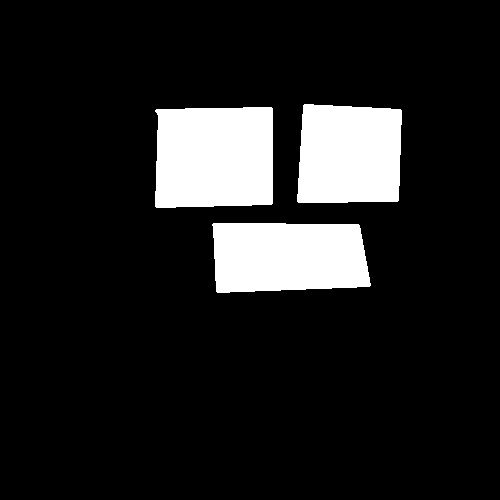
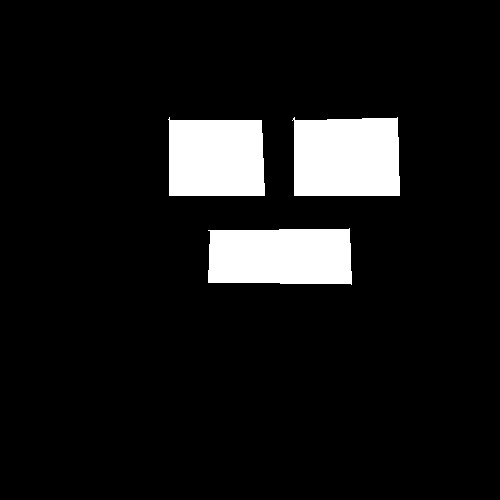
added docker file

Changed region(s): [[0.3, 0.21, 0.81, 0.6]]

diff --git a/utils.py b/utils.py
@@ -1,43 +1,108 @@
 from PIL import Image, ImageDraw, ImageFont
 import numpy as np
 import cv2
+import streamlit as st
 
 
-def load_image(file):
-    return Image.open(file).convert("RGB")
+def init_session_state():
+    defaults = {
+        "file_name": None,
+        "uploaded_image": None,
+        "original_resized_image": None,
+        "annotated_image": None,
+        "draw_mode": False,
+        "count": 0,
+        "tempList": {},
+        "black_image": None,
+        "done_clicked": False,
+    }
+    for key, value in defaults.items():
+        if key not in st.session_state:
+            st.session_state[key] = value
+
+# def load_image(file):
+#     return Image.open(file).convert("RGB")
 
 
 
-def resize_image(image_np,orig_width,orig_height):
-    image=Image.fromarray(image_np)
-    MAX_CANVAS_WIDTH = 500
-    scale = MAX_CANVAS_WIDTH / orig_width
-    new_width = int(orig_width * scale)
-    new_height = int(orig_height * scale)
-    resized_image = image.resize((new_width, new_height))
-    return resized_image
+# def resize_image(image_np,orig_width,orig_height):
+#     image=Image.fromarray(image_np)
+#     MAX_CANVAS_WIDTH = 500
+#     scale = MAX_CANVAS_WIDTH / orig_width
+#     new_width = int(orig_width * scale)
+#     new_height = int(orig_height * scale)
+#     resized_image = image.resize((new_width, new_height))
+#     return resized_image
 
-def draw_points_on_black_image(pil_image, point_dict):
+# def draw_points_on_black_image(pil_image, point_dict):
+#     """
+#     Create a black image (NumPy) of the same shape as the given PIL image,
+#     and set specific (x, y) coordinates to white (255) based on the input dictionary.
+
+#     Args:
+#         pil_image (PIL.Image): Input image to get shape.
+#         point_dict (dict): Dictionary with values as list of (x, y) tuples.
+
+#     Returns:
+#         np.ndarray: Black image with specified points set to 255 (white).
+#     """
+#     width, height = pil_image.size
+#     black_img = np.zeros((height, width), dtype=np.uint8)  # Grayscale black image
+#     for key, points in point_dict.items():
+#         # Convert list of tuples -> numpy array shape (n_points, 1, 2)
+#         contour = np.array(points, dtype=np.int32).reshape((-1, 1, 2))
+        
+#         # Fill polygon with white
+#         cv2.fillPoly(black_img, [contour], color=(255, 255, 255))  # White fill
+
+#         # Draw red contour on top
+#         cv2.polylines(black_img, [contour], isClosed=True, color=(255, 0, 0), thickness=2)
+#     return black_img
+
+
+
+def resize_image(image, width, height):
     """
-    Create a black image (NumPy) of the same shape as the given PIL image,
-    and set specific (x, y) coordinates to white (255) based on the input dictionary.
+    Resize a given image to the specified width and height.
 
     Args:
-        pil_image (PIL.Image): Input image to get shape.
-        point_dict (dict): Dictionary with values as list of (x, y) tuples.
+        image (np.ndarray): Input image as a NumPy array.
+        width (int): Target width in pixels.
+        height (int): Target height in pixels.
 
     Returns:
-        np.ndarray: Black image with specified points set to 255 (white).
+        PIL.Image.Image: Resized image as a PIL Image object.
     """
-    width, height = pil_image.size
-    black_img = np.zeros((height, width), dtype=np.uint8)  # Grayscale black image
-    for key, points in point_dict.items():
-        # Convert list of tuples -> numpy array shape (n_points, 1, 2)
-        contour = np.array(points, dtype=np.int32).reshape((-1, 1, 2))
-        
-        # Fill polygon with white
-        cv2.fillPoly(black_img, [contour], color=(255, 255, 255))  # White fill
+    return Image.fromarray(image).resize((width, height))
 
-        # Draw red contour on top
-        cv2.polylines(black_img, [contour], isClosed=True, color=(255, 0, 0), thickness=2)
-    return black_img
+def detect_objects(image,model):
+    """
+    Perform object detection on the given image using the YOLO model.
+
+    Args:
+        image (PIL.Image.Image): Input image as a PIL Image.
+
+    Returns:
+        np.ndarray: Annotated image with detection results plotted on it.
+    """
+    image_np = np.array(image)
+    results = model(image_np)
+    return results[0].plot()
+
+def draw_points_on_black_image(image, annotations):
+    """
+    Draw labeled polygons on a black image based on user annotations.
+
+    Args:
+        image (PIL.Image.Image): Reference image to determine size.
+        annotations (dict): Dictionary containing polygon points as values.
+
+    Returns:
+        np.ndarray: Black image with white polygons drawn over it.
+    """
+    black_image = Image.new("RGB", image.size, "black")
+    draw = ImageDraw.Draw(black_image)
+    for points in annotations.values():
+        draw.polygon(points, outline="white", fill="white")
+    return np.array(black_image)
+

diff --git a/app.py b/app.py
@@ -1,0 +1,116 @@
+import streamlit as st
+import numpy as np
+from PIL import Image, ImageDraw
+import cv2
+from ultralytics import YOLO
+from streamlit_drawable_canvas import st_canvas
+from config import YOLO_MODEL_PATH,ANNOTATED_MASK_PATH
+from utils import (init_session_state,resize_image,draw_points_on_black_image,detect_objects)
+# Load model once
+
+
+@st.cache_resource
+def load_model():
+    return YOLO(YOLO_MODEL_PATH)
+
+
+def main():
+
+    model = load_model()
+    st.title("YOLO Object Detection App")
+
+    init_session_state()
+
+    # File uploader
+    uploaded_file = st.file_uploader("Choose an image...", type=["jpg", "jpeg", "png"])
+
+    # UI controls
+    col1, col2, col3 = st.columns(3)
+    upload_pressed = col1.button("Show Image")
+    detect_pressed = col2.button("Detect")
+    annotate_pressed = col3.button("Annotate")
+
+    # Upload logic
+    if upload_pressed and uploaded_file:
+        st.session_state.file_name = uploaded_file.name
+        st.session_state.uploaded_image = Image.open(uploaded_file)
+        st.image(st.session_state.uploaded_image, caption="Original Image", width=500)
+
+    # Detection logic
+    elif detect_pressed:
+        if st.session_state.uploaded_image is None and uploaded_file:
+            st.session_state.uploaded_image = Image.open(uploaded_file)
+        
+        original_image = st.session_state.uploaded_image
+        st.session_state.annotated_image = detect_objects(original_image,model)
+        st.session_state.original_resized_image = resize_image(np.array(original_image), 500, 500)
+
+        col1, col2 = st.columns(2)
+        col1.image(original_image, caption="Original Image", use_container_width=True)
+        col2.image(st.session_state.annotated_image, caption="Detected Image", use_container_width=True)
+
+    # Annotate logic
+    elif annotate_pressed:
+        if st.session_state.uploaded_image is None and uploaded_file:
+            st.session_state.uploaded_image = Image.open(uploaded_file)
+        st.session_state.draw_mode = True
+
+    # Drawing mode
+    if st.session_state.draw_mode:
+        base_image = resize_image(st.session_state.annotated_image, 500, 500)
+        
+        if st.session_state.count == 0:
+            st.session_state.original_resized = base_image.copy()
+
+        canvas_result = st_canvas(
+            fill_color="rgba(255, 0, 0, 0.3)",
+            stroke_width=2,
+            stroke_color="#FF0000",
+            background_image=base_image,
+            update_streamlit=True,
+            height=500,
+            width=500,
+            drawing_mode="polygon",
+            key="canvas",
+        )
+
+        if canvas_result.json_data and canvas_result.json_data["objects"]:
+            for obj in canvas_result.json_data["objects"]:
+                path_data = obj["path"]
+                polygon_points = [(pt[1], pt[2]) for pt in path_data if pt[0] in ['L', 'M']]
+                ImageDraw.Draw(st.session_state.original_resized).polygon(polygon_points, outline="blue", width=2)
+                st.session_state.tempList[f"label_{st.session_state.count}"] = polygon_points
+                st.session_state.count += 1
+
+            col1, col2 = st.columns(2)
+            col1.image(st.session_state.original_resized_image, caption="Original Image", use_container_width=True)
+            col2.image(st.session_state.original_resized, caption="Annotated Image", use_container_width=True)
+
+            if st.button("Show Generated Mask", type="primary"):
+                st.session_state.black_image = draw_points_on_black_image(
+                    st.session_state.original_resized, st.session_state.tempList
+                )
+                black_image_pil = Image.fromarray(st.session_state.black_image)
+                col1.image(st.session_state.original_resized, caption="Annotated Image", use_container_width=True)
+                col2.image(black_image_pil, caption="Generated Mask", use_container_width=True)
+
+            if st.button("Done", type="primary"):
+                st.session_state.draw_mode = False
+                st.session_state.done_clicked = True
+
+            if st.session_state.done_clicked:
+                mask_path = ANNOTATED_MASK_PATH + st.session_state.file_name + '.jpg'
+                cv2.imwrite(mask_path, st.session_state.black_image)
+
+                for key in [
+                    "file_name", "uploaded_image", "annotated_image",
+                    "annotated_image_pil", "original_resized", "count",
+                    "draw_mode", "black_image", "done_clicked", "tempList"
+                ]:
+                    st.session_state.pop(key, None)
+
+                st.success("✅ Annotation saved. Upload a new image to start again!")
+                st.rerun()
+
+if __name__ == "__main__":
+    main()

diff --git a/test.py b/test.py
@@ -1,43 +1,2 @@
 import streamlit as st
-from PIL import Image
-from streamlit_drawable_canvas import st_canvas
-
-# Load image
-image = Image.open("D:\\yolov5\\ultralytics\\bus.jpg")
-orig_width, orig_height = image.size
-
-# Resize for canvas while preserving aspect ratio
-MAX_CANVAS_WIDTH = 500
-scale = MAX_CANVAS_WIDTH / orig_width
-canvas_width = int(orig_width * scale)
-canvas_height = int(orig_height * scale)
-resized_image = image.resize((canvas_width, canvas_height))
-
-# Display canvas for drawing multiple rectangles
-canvas_result = st_canvas(
-    fill_color="rgba(255, 0, 0, 0.3)",
-    stroke_width=2,
-    stroke_color="#FF0000",
-    background_image=resized_image,
-    update_streamlit=True,
-    height=canvas_height,
-    width=canvas_width,
-    drawing_mode="rect",   # still 'rect' mode
-    key="canvas",
-)
-
-# Handle all rectangles drawn by user
-if canvas_result.json_data is not None:
-    objects = canvas_result.json_data["objects"]
-    if objects:
-        st.markdown("### ✅ Rectangles Drawn:")
-        for i, obj in enumerate(objects):
-            left = obj["left"] / scale
-            top = obj["top"] / scale
-            width = obj["width"] / scale
-            height = obj["height"] / scale
-
-            x1, y1 = round(left), round(top)
-            x2, y2 = round(left + width), round(top + height)
-
-            st.write(f"**Box {i+1}:** ({x1}, {y1}) → ({x2}, {y2})")
+print(st.__version__)

diff --git a/config.py b/config.py
@@ -1,4 +1,6 @@
 import os
 
-YOLO_MODEL_PATH="D:\\yolov5\\ultralytics\\yolo_annotation_tool\\models\\yolo11n.pt"
-ANNOTATED_MASK_PATH="D:\\yolov5\\ultralytics\\yolo_annotation_tool\\annotated_mask\\"
+BASE_DIR = os.path.dirname(os.path.abspath(__file__))
+
+YOLO_MODEL_PATH = os.path.join(BASE_DIR, "models", "yolo11n.pt")
+ANNOTATED_MASK_PATH = os.path.join(BASE_DIR, "annotated_mask")
